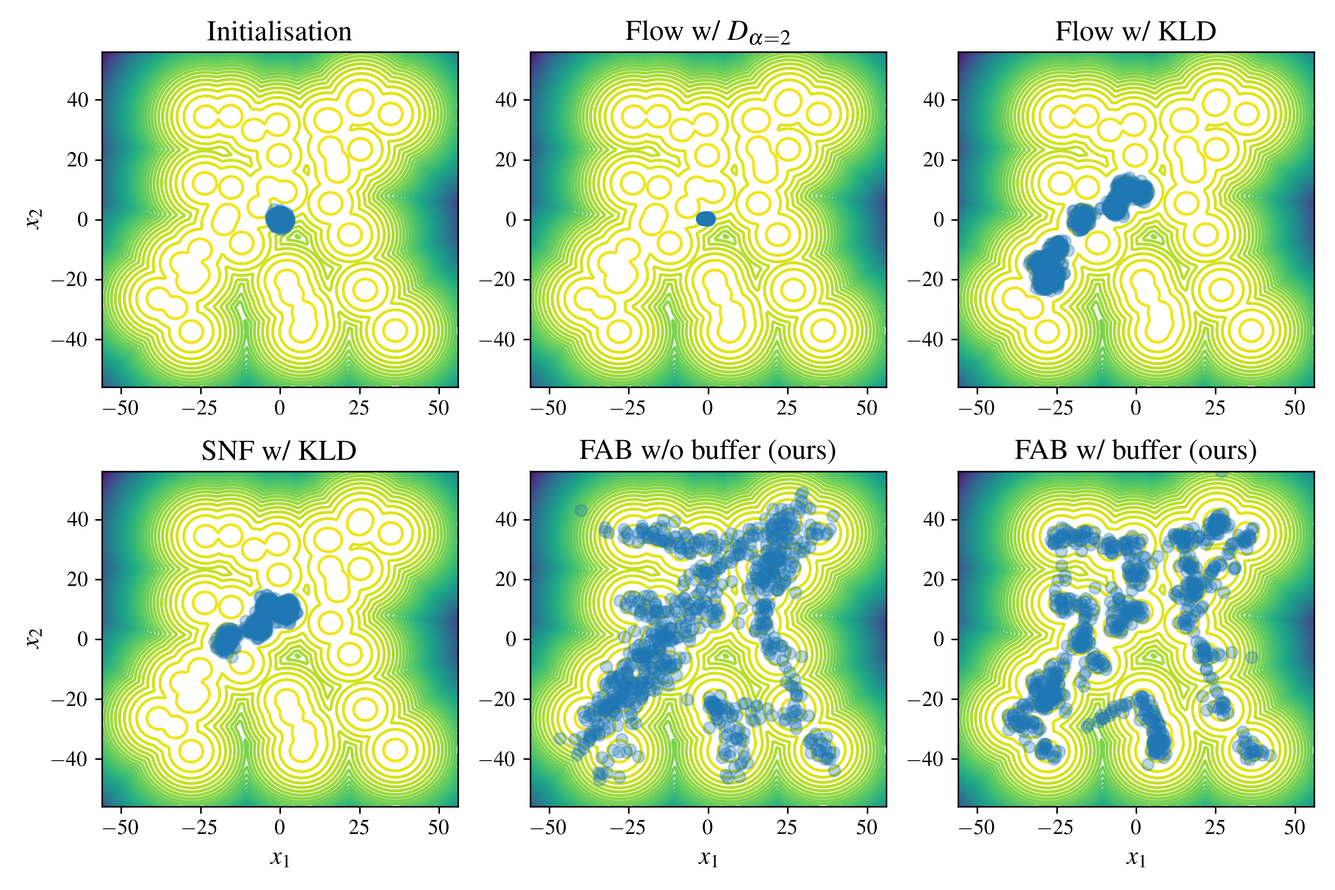
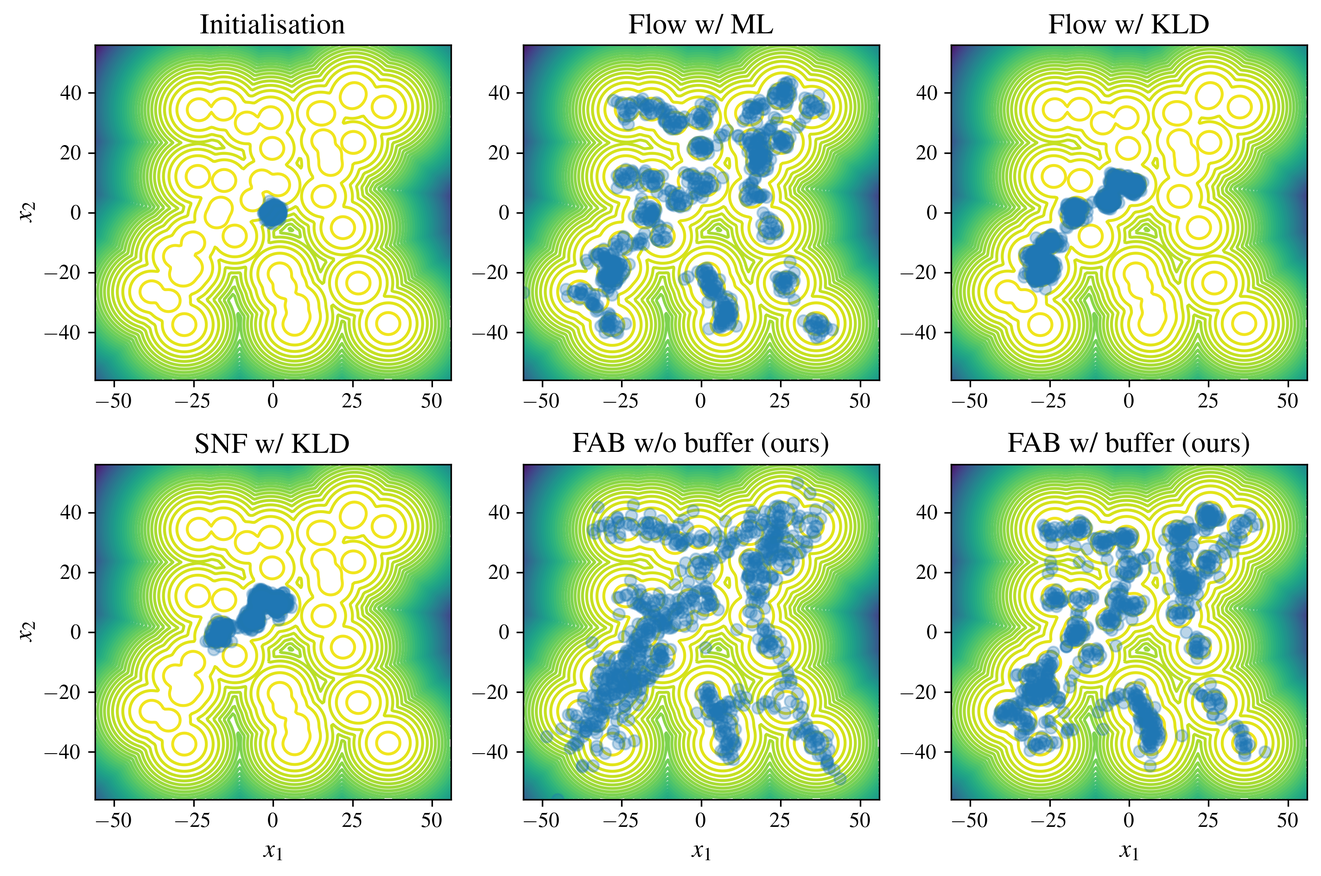
feat: update GMM results

diff --git a/examples/paper_results/gmm/results_vis.py b/examples/paper_results/gmm/results_vis.py
@@ -48,12 +48,14 @@ def plot_result(cfg: DictConfig, ax: plt.axes, target, model_name: Optional[str]
     plot_marginal_pair(samples_flow, ax=ax, bounds=plotting_bounds, alpha=alpha)
 
 
-@hydra.main(config_path="./", config_name="config.yaml")
+@hydra.main(config_path="../../config", config_name="gmm.yaml")
 def run(cfg: DictConfig):
-    model_names = [None, "flow_nis", "flow_kld", "snf", "fab_no_buffer", "fab_buffer"]
-    titles = ["Initialisation", r"Flow w/ $D_{\alpha=2}$",
-              "Flow w/ KLD", "SNF w/ KLD", "FAB w/o buffer (ours)", "FAB w/ buffer (ours)"]
-
+    # model_names = [None, "flow_nis", "flow_kld", "snf", "fab_no_buffer", "fab_buffer"]
+    # titles = ["Initialisation", r"Flow w/ $D_{\alpha=2}$",
+    #           "Flow w/ KLD", "SNF w/ KLD", "FAB w/o buffer (ours)", "FAB w/ buffer (ours)"]
+    model_names = [None, "target_kld", "flow_kld", "snf", "fab_no_buffer", "fab_buffer"]
+    titles = ["Initialisation", "Flow w/ ML", "Flow w/ KLD",
+              "SNF w/ KLD", "FAB w/o buffer (ours)", "FAB w/ buffer (ours)"]
     mpl.rcParams['figure.dpi'] = 300
     rc('font', **{'family': 'serif', 'serif': ['Times']})
     rc('text', usetex=True)
@@ -87,6 +89,7 @@ def run(cfg: DictConfig):
         ax.set_title(title)
 
     plt.tight_layout()
+    plt.savefig("/home/laurence/work/code/FAB-TORCH/examples/paper_results/gmm/plots/MoG.png", bbox_inches="tight")
     plt.show()
 
 

diff --git a/examples/paper_results/gmm/evaluation.py b/examples/paper_results/gmm/evaluation.py
@@ -65,9 +65,9 @@ def evaluate(cfg: DictConfig, model_name: str, num_samples=int(1e4)):
 
 @hydra.main(config_path="../../config", config_name="gmm.yaml")
 def main(cfg: DictConfig):
-    model_names = ["fab_buffer", "fab_no_buffer", "flow_kld", "flow_nis", "snf"]
+    model_names = ["fab_buffer", "fab_no_buffer", "flow_kld", "flow_nis", "target_kld", "snf"]
     seeds = [1, 2, 3]
-    num_samples = int(5e3)
+    num_samples = int(5e4)
 
     results = pd.DataFrame()
     for model_name in model_names:

diff --git a/examples/paper_results/gmm/evaluation_expectation_quadratic_func.py b/examples/paper_results/gmm/evaluation_expectation_quadratic_func.py
@@ -96,7 +96,7 @@ def evaluate(cfg: DictConfig, model_name: str, num_samples=int(1e3), n_repeats=1
 
 @hydra.main(config_path="../../config", config_name="gmm.yaml")
 def main(cfg: DictConfig):
-    model_names = ["target", "fab_buffer", "fab_no_buffer", "flow_kld", "flow_nis", "snf"]
+    model_names = ["target", "fab_buffer", "fab_no_buffer", "flow_kld", "flow_nis", "target_kld", "snf"]
     seeds = [1, 2, 3]
     num_samples = int(1000)
 
